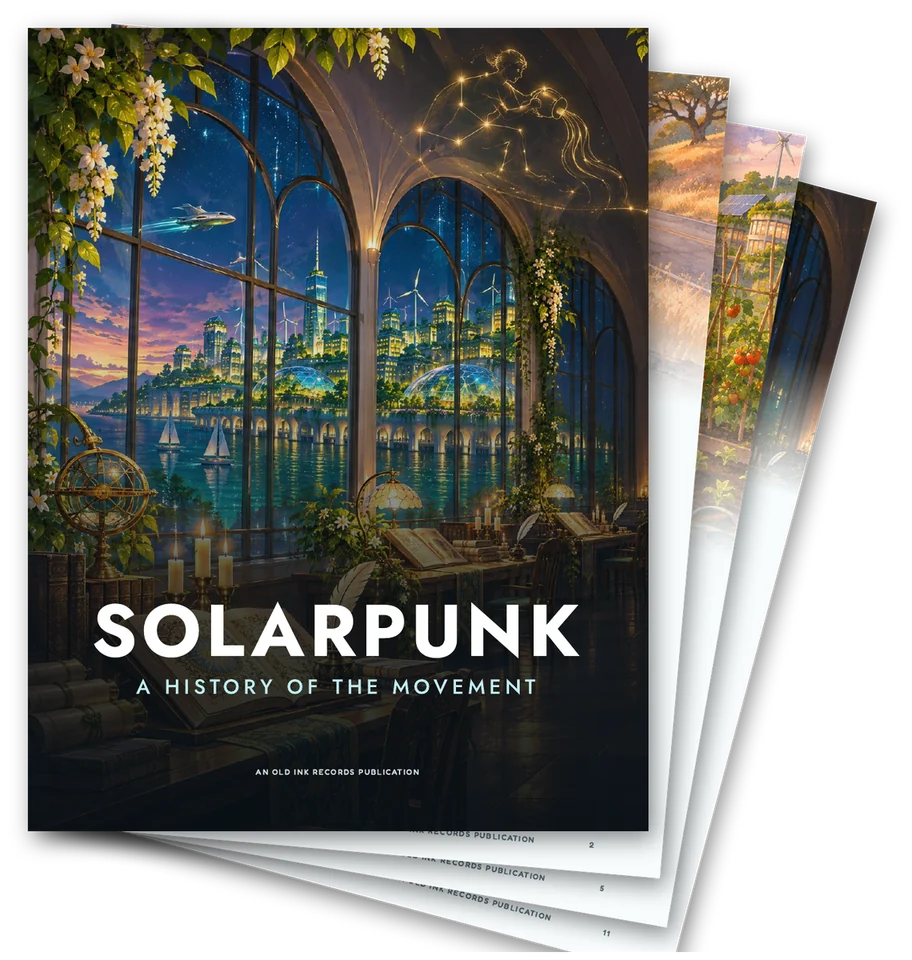
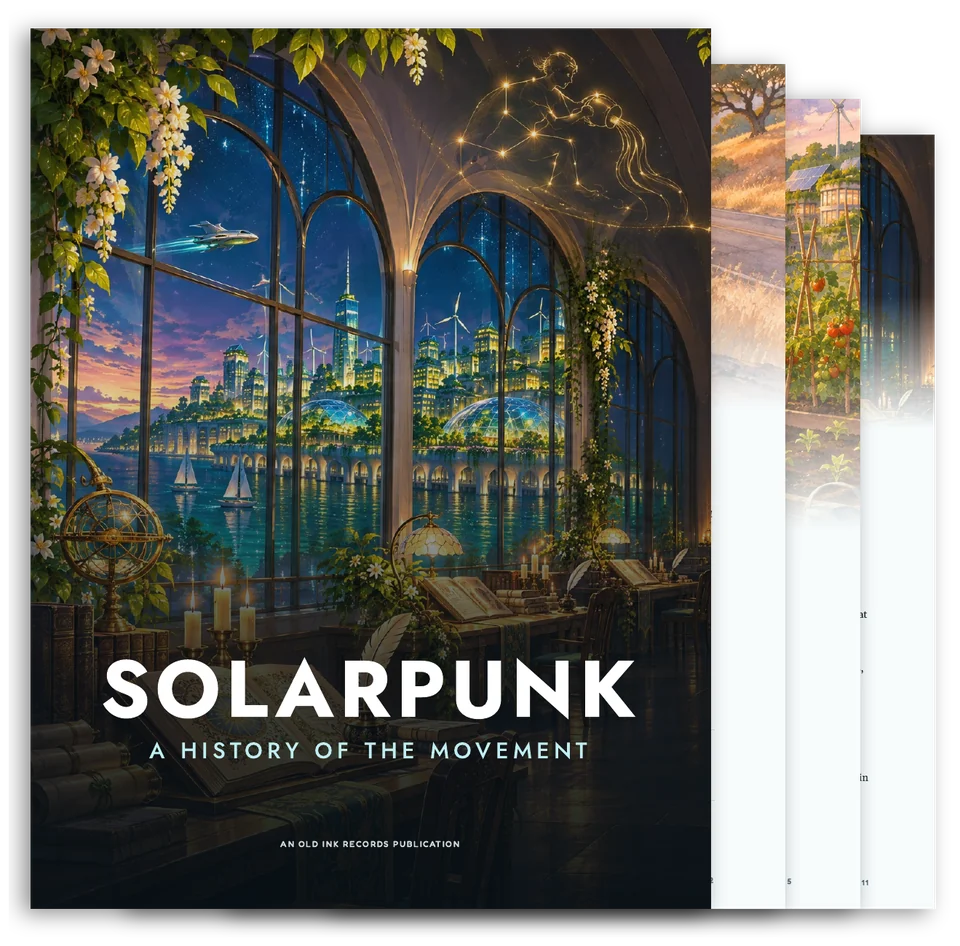
E-book stack: pages share the cover's bottom edge
Claude-Session: https://claude.ai/code/session_01FqDuLxJFYLT1ZZUaEZmb1x

diff --git a/solarpunk-a-history-of-the-movement-ebook.html b/solarpunk-a-history-of-the-movement-ebook.html
@@ -124,7 +124,7 @@
     <div class="wrap" style="text-align:center">
       <div class="eyebrow" style="margin-bottom:10px">The e-book</div>
       <h2 style="margin-bottom:22px">Fourteen Illustrated Pages</h2>
-      <img class="stack" src="/ebook-stack.webp" width="912" height="960" loading="lazy" alt="The cover of Solarpunk: A History of the Movement with three illustrated inside pages fanned out behind it">
+      <img class="stack" src="/ebook-stack.webp?v=2" width="960" height="946" loading="lazy" alt="The cover of Solarpunk: A History of the Movement with three illustrated inside pages stacked behind it">
       <p style="margin:18px auto 0;max-width:52ch;color:var(--cream-dim);font-style:italic">Illustrations on every spread, a timeline of the movement, and sources for everything.</p>
     </div>
   </section>
